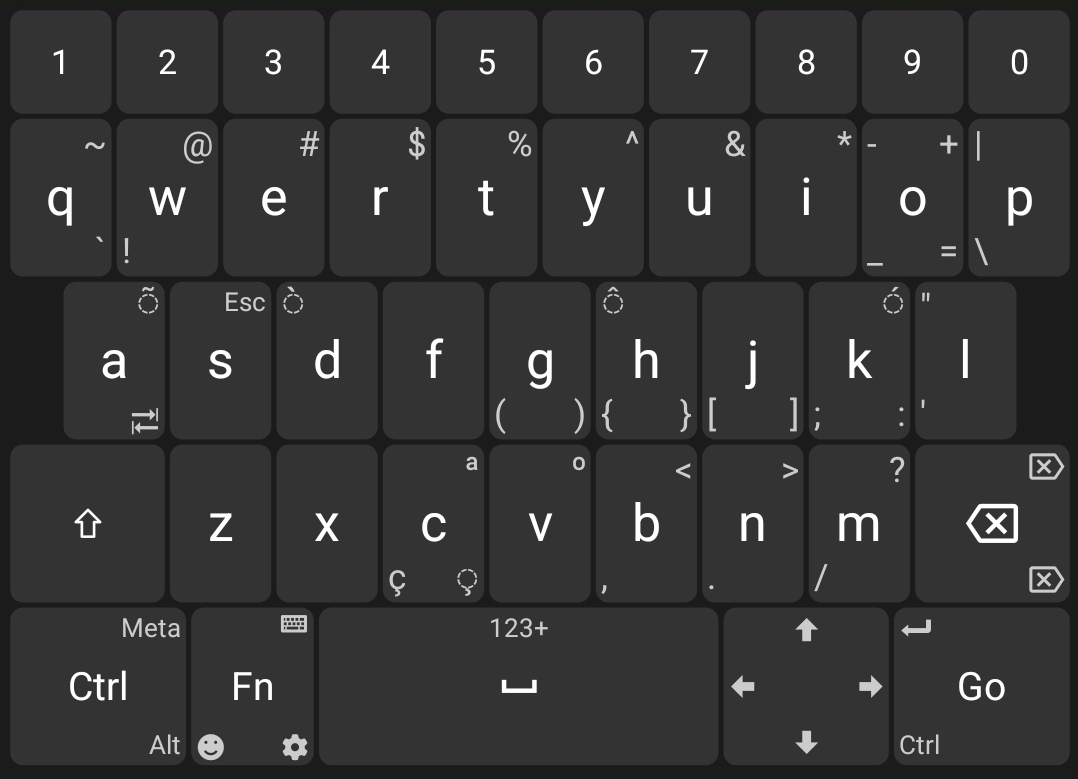
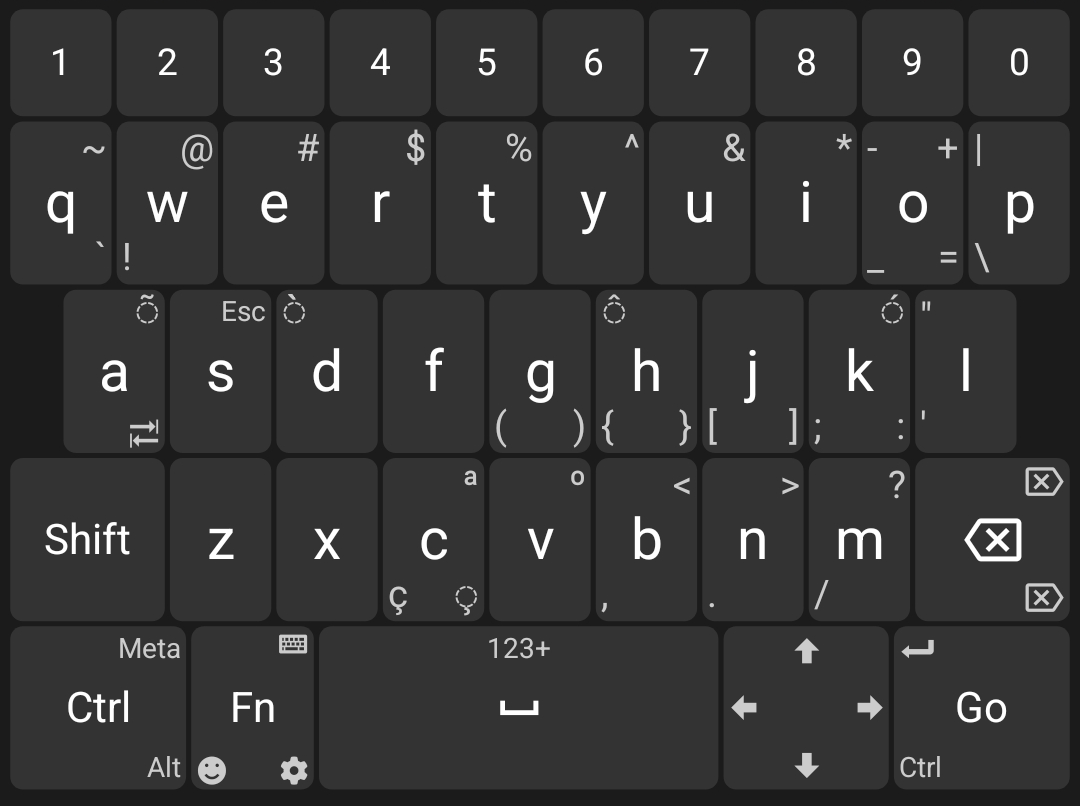
Update layout with number row

diff --git a/srcs/juloo.keyboard2/Config.java b/srcs/juloo.keyboard2/Config.java
@@ -232,6 +232,7 @@ final class Config
       case "qwerty": return R.xml.qwerty;
       case "qwerty2": return R.xml.qwerty2;
       case "qwerty2_nbr_row": return R.xml.qwerty2_nbr_row;
+      case "qwerty3_nbr_row": return R.xml.qwerty3_nbr_row;
       case "qwerty_sv_se": return R.xml.qwerty_sv_se;
       case "qwertz": return R.xml.qwertz;
       case "qwertz_hu": return R.xml.qwertz_hu;
@@ -254,6 +255,7 @@ final class Config
       case "qwerty": return R.xml.numeric;
       case "qwerty2": return R.xml.numeric2;
       case "qwerty2_nbr_row": return R.xml.numeric2;
+      case "qwerty3_nbr_row": return R.xml.numeric2;
       // case "qwerty_sv_se": return R.xml.numeric;
       // case "qwertz": return R.xml.numeric;
       // case "ru_jcuken": return R.xml.numeric;

diff --git a/srcs/juloo.keyboard2/KeyValue.java b/srcs/juloo.keyboard2/KeyValue.java
@@ -175,8 +175,11 @@ class KeyValue
 
   static
   {
-    addModifierKey("shift", "\n", // Can't write u000A because Java is stupid
-        FLAG_SHIFT | FLAG_KEY_FONT | FLAG_SMALLER_FONT);
+    // addModifierKey("shift", "\n", // Can't write u000A because Java is stupid
+    //     FLAG_SHIFT | FLAG_KEY_FONT | FLAG_SMALLER_FONT);
+    // replace Shift arrow symbol for a literal 'shift' caption because of the 
+    //     proximity to the navigation arrows on querty3 layout
+    addModifierKey("shift", "Shift", FLAG_SHIFT | FLAG_SMALLER_FONT);
     addModifierKey("ctrl", "Ctrl", FLAG_CTRL | FLAG_SMALLER_FONT);
     addModifierKey("alt", "Alt", FLAG_ALT | FLAG_SMALLER_FONT);
     addModifierKey("accent_aigu", "\u0050", FLAG_ACCENT2 | FLAG_KEY_FONT);

diff --git a/README.md b/README.md
@@ -1,12 +1,23 @@
 # Unexpected Keyboard
 ###  - Personal fork for testing and adding personal preferences -  
-Readme.md Updated 2022-july
+Readme.md Updated 2022-october
 
 Awesome work on the original [upstream](https://github.com/Julow/Unexpected-Keyboard) repo ❤thank you!
 
 This fork currently has the following extra changes:
 
-- Add QWERTY2+NumberRow layout
+- Add 'QWERTY3 + NumberRow layout + Split arrows'
+><img src=metadata/android/en-US/images/featureGraphic5.png
+alt="Unexpected Keyboard Image"
+style="width: 400px;
+       margin-left: 6px;
+       margin-right: 6px;">
+- Add 'QWERTY2 + NumberRow layout'
+><img src=metadata/android/en-US/images/featureGraphic.png
+alt="Unexpected Keyboard Image"
+style="width: 400px;
+       margin-left: 6px;
+       margin-right: 6px;">
 - Add QWERTY2 Layout, this layout is an alternative to the original QWERTY, it is a programming layout, (not a localization), the main goal on this layout was first to move the corners extrakeys away from phone's edge (good for bulky phone case), after that some other keys rearrangements were also done to improve the layout overall
 - The QWERTY2 layout has adjusted key proportions on the bottom row, giving more importance to the navigation arrows key
 - To implement the QWERTY2 Layout, there is some added logic that enable each individual layout to be paired with a specif numeric layout, so it's possible to have different numeric layouts.
@@ -17,9 +28,9 @@ This fork currently has the following extra changes:
 - Portuguese layout split in qwerty-international style and abnt2 layout style, since both styles are commonly used, and it is a matter of personal preference.
 - (screenshots here are hit and miss on how much up to date they are)
 
-Debug APKs on the actions tab (must be logged to github to download) [link](https://github.com/sdrapha/Unexpected-Keyboard/actions?query=branch%3Aall-branches-merged-in-one)
+### -> Debug APKs on the actions tab (must be logged to github to download) -> [link](https://github.com/sdrapha/Unexpected-Keyboard/actions?query=branch%3Aall-branches-merged-in-one)
 
-Direct link to latest debug apk without having to be logged in to github -> [link](https://nightly.link/sdrapha/Unexpected-Keyboard/workflows/make-apk/all-branches-merged-in-one/debug%20apk.zip)
+### -> Direct link to latest debug apk without having to be logged in to github -> [link](https://nightly.link/sdrapha/Unexpected-Keyboard/workflows/make-apk/all-branches-merged-in-one/debug%20apk.zip)
 
 -----
 ## Unexpected Keyboard
@@ -27,9 +38,8 @@ A lightweight virtual keyboard for developers.
 
 ![Unexpected Keyboard](metadata/android/en-US/images/featureGraphic.png)
 
-| <img src="/metadata/android/en-US/images/phoneScreenshots/1.png" alt="Screenshot-1" /> | <img src="/metadata/android/en-US/images/phoneScreenshots/2.png" alt="Screenshot-2"/> | <img src="/metadata/android/en-US/images/phoneScreenshots/3.png" alt="Screenshot-3"/> |
+| <img src="metadata/android/en-US/images/phoneScreenshots/1.png" alt="Screenshot-1" /> | <img src="metadata/android/en-US/images/phoneScreenshots/2.png" alt="Screenshot-2"/> | <img src="metadata/android/en-US/images/phoneScreenshots/3.png" alt="Screenshot-3"/> |
 | --- | --- | --- |
-| <img src="/metadata/android/en-US/images/phoneScreenshots/4.png" alt="Screenshot-4" /> | <img src="/metadata/android/en-US/images/phoneScreenshots/5.png" alt="Screenshot-5" /> | <img src="/metadata/android/en-US/images/phoneScreenshots/6.png" alt="Screenshot-6" /> |
 
 This app is a virtual keyboard for Android. The main features are easy typing of every ASCII character using the swipe gesture, dead keys for accents and modifier keys and the presence of special keys (tab, esc, arrows, etc..).
 
@@ -50,12 +60,6 @@ Highlight of some of the features:
 Like any other virtual keyboards, it must be enabled in the system settings. Open the System Settings and go to:
 System > Languages & input > On-screen keyboard > Manage on-screen keyboards.
 
-[<img src="https://fdroid.gitlab.io/artwork/badge/get-it-on.png"
-     alt="Get it on F-Droid"
-     height="80">](https://f-droid.org/packages/juloo.keyboard2/)
-[<img src="https://play.google.com/intl/en_us/badges/images/generic/en-play-badge.png"
-     alt="Get it on Google Play"
-     height="80">](https://play.google.com/store/apps/details?id=juloo.keyboard2)
 
 ## Contributing
 
@@ -64,7 +68,7 @@ For instructions on building the application, see
 
 ## Screenshots
 
-<img src=metadata/android/en-US/images/featureGraphic.png
+<img src=metadata/android/en-US/images/featureGraphic5.png
 alt="Unexpected Keyboard Image"
 style="width: 400px;
        margin-left: 6px;
